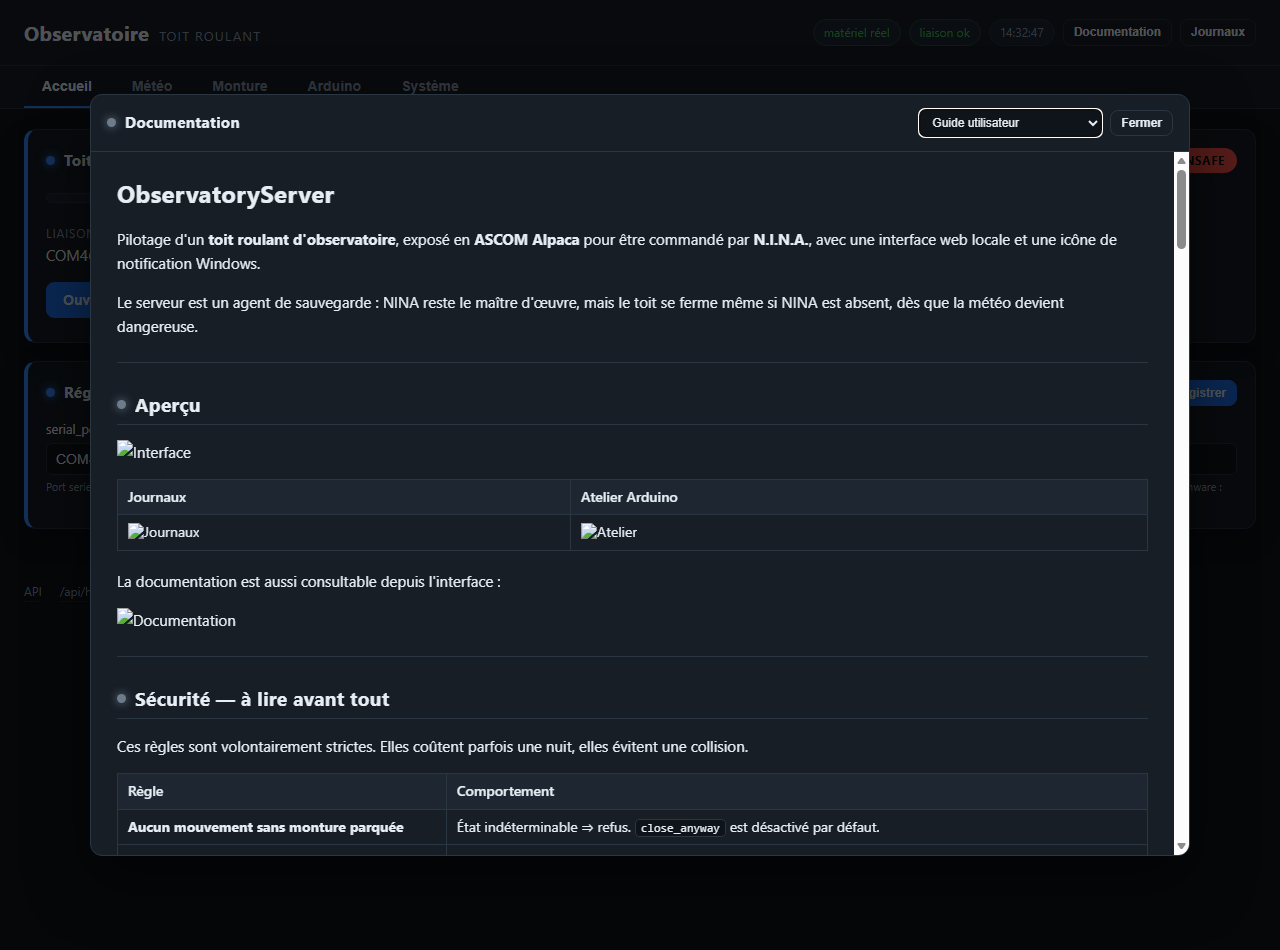
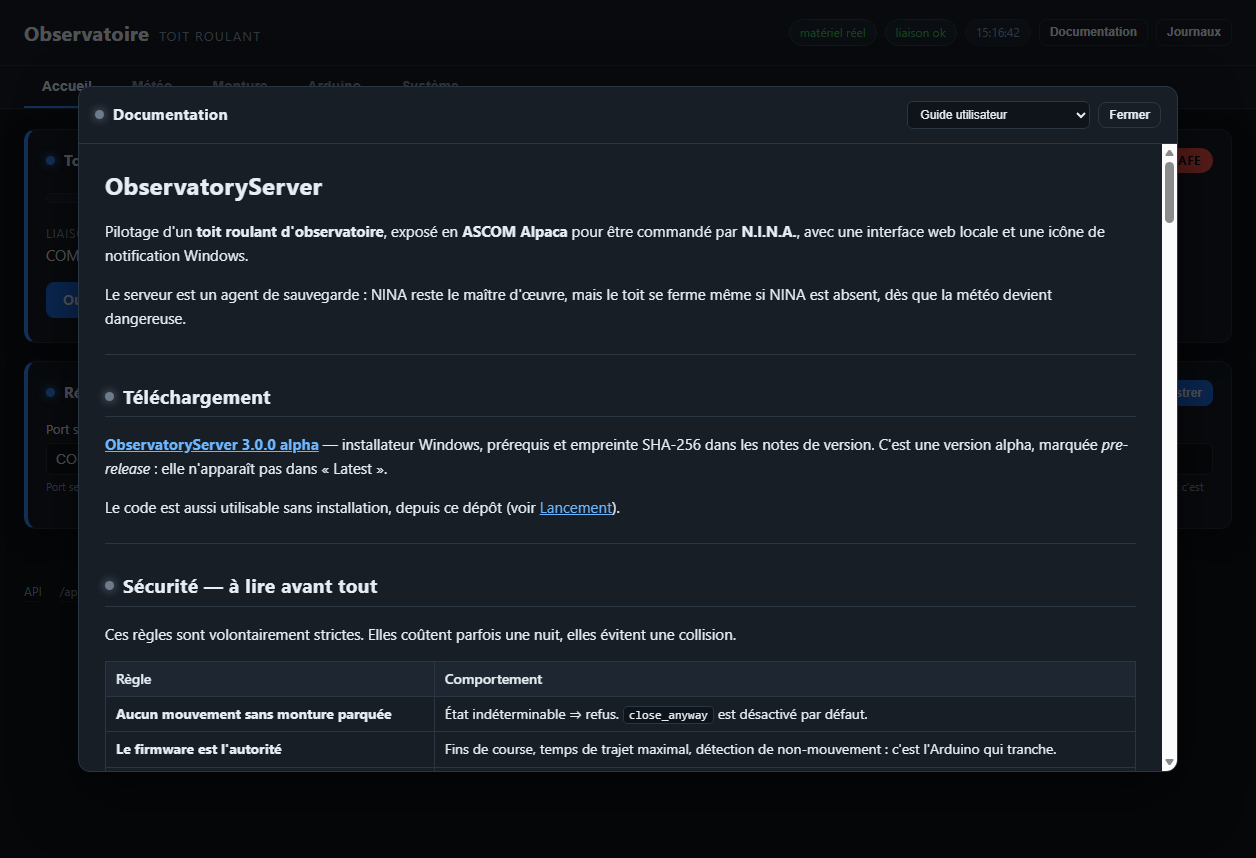
Documentation integree et captures a jour
- la documentation embarquee affichait des images cassees : la galerie
  'Apercu' du README (relative au depot) est retiree du rendu, et toute autre
  image est supprimee ;
- captures d'ecran regenerees depuis l'application installee, en materiel
  reel : libelles francais, listes de brochage, confirmations ;
- la carte cible occupe deux colonnes et n'est plus tronquee ;
- les descriptions ne citent plus de cle technique (serial_port,
  ROOF_MAX_TRAVEL_MS) ;
- le README renvoie vers la release et son empreinte SHA-256.

diff --git a/backend/web/app.js b/backend/web/app.js
@@ -409,7 +409,7 @@ function fieldElement(item) {
     item.type === "bool" ? String(item.value === true) : String(item.value);
 
   // Le pilote ASCOM est long et partage sa ligne avec le bouton Scanner.
-  if (item.key === "telescope_driver") {
+  if (item.key === "telescope_driver" || item.key === "arduino_fqbn") {
     wrapper.classList.add("span2");
   }
 

diff --git a/backend/common/settings_manager.py b/backend/common/settings_manager.py
@@ -114,14 +114,14 @@ SETTING_INFO = {
     "serial_port": ("toit", "Port serie de l'Arduino (par exemple COM4)."),
     "baudrate": ("toit", "Debit de la liaison serie ; doit correspondre au firmware."),
     "full_travel_time": ("toit", "Temps de trajet complet mesure, en secondes (estimation de position)."),
-    "max_travel_time": ("toit", "Doit rester egal a ROOF_MAX_TRAVEL_MS du firmware : c'est lui qui tranche."),
+    "max_travel_time": ("toit", "Doit rester egal a la securite de trajet du firmware : c'est elle qui tranche."),
     # monture
     "telescope_driver": ("monture", "ProgID ASCOM du driver (EQMOD.Telescope, ou EQMOD_SIM.Telescope pour un essai)."),
     "park_timeout": ("monture", "Delai maximal d'attente d'un parkage, en secondes."),
     "park_grace_seconds": ("monture", "Temps laisse a la monture pour se parquer avant que le toit refuse."),
     "auto_park_mount": ("monture", "L'agent de sauvegarde peut parquer lui-meme la monture. Jamais sur une commande interactive."),
     "close_anyway": ("monture", "Fermer le toit meme si la monture n'est pas parquee. Dangereux, desactive par defaut."),
-    "mount_check_mode": ("monture", "strict : refus si la monture n'est pas parquee. disabled : aucune verification."),
+    "mount_check_mode": ("monture", "Strict refuse si la monture n'est pas parquee ; desactive supprime la verification."),
     "guard_mount": ("monture", "Parquer la monture si elle est deparquee alors que le toit est ferme, et arreter la fermeture si elle se deparquille en cours."),
     "simulation_mount_parked": ("monture", "Etat de parkage de la monture simulee (mode simulation)."),
     # meteo
@@ -139,7 +139,7 @@ SETTING_INFO = {
     # atelier
     "arduino_cli_path": ("arduino", "Chemin d'arduino-cli. Vide : detection automatique (IDE Arduino, PATH)."),
     "arduino_fqbn": ("arduino", "Carte cible pour la compilation et le televersement."),
-    "arduino_upload_port": ("arduino", "Port de televersement. Vide : utilise serial_port."),
+    "arduino_upload_port": ("arduino", "Port de televersement. Vide : utilise le port serie du toit."),
     "pin_limit_open": ("arduino", "Broche du fin de course d'ouverture."),
     "pin_limit_closed": ("arduino", "Broche du fin de course de fermeture."),
     "pin_bts_rpwm": ("arduino", "Broche RPWM du driver BTS7960 (sens + vitesse)."),

diff --git a/backend/common/docs_api.py b/backend/common/docs_api.py
@@ -10,6 +10,8 @@ lecteur Markdown.
 
 from pathlib import Path
 
+import re
+
 import markdown
 
 from backend.common.paths import APP_DIR
@@ -22,6 +24,12 @@ DOCUMENTS = {
 }
 
 EXTENSIONS = ("tables", "fenced_code", "sane_lists")
+
+_IMAGE = re.compile(r"<img\b[^>]*>", re.IGNORECASE)
+
+# Section « Aperçu » du README : uniquement des captures du depot, qui ne se
+# resolvent pas dans l'application et laissent des tableaux vides.
+_APERCU = re.compile(r"^## Aper[çc]u\s*$.*?(?=^## |\Z)", re.MULTILINE | re.DOTALL)
 
 
 class UnknownDocument(KeyError):
@@ -60,7 +68,13 @@ def render(name):
 
     text = path.read_text(encoding="utf-8")
 
+    # La galerie de captures n'a pas de sens dans l'application elle-meme.
+    text = _APERCU.sub("", text)
+
     html = markdown.markdown(text, extensions=list(EXTENSIONS))
+
+    # Toute autre image du depot resterait cassee dans l'application.
+    html = _IMAGE.sub("", html)
 
     return {
         "key": name,

diff --git a/tests/test_paths_config.py b/tests/test_paths_config.py
@@ -206,3 +206,14 @@ def test_une_broche_non_pwm_est_refusee():
 def test_une_valeur_hors_liste_est_refusee():
     with pytest.raises(ValueError):
         settings_manager.update_setting("mount_check_mode", "peut-etre")
+
+
+def test_les_descriptions_ne_citent_pas_de_cle_technique():
+    """Une description doit rester lisible : pas de nom de variable."""
+
+    items = settings_manager.schema()["settings"]
+    keys = [item["key"] for item in items if "_" in item["key"]]
+
+    for item in items:
+        for key in keys:
+            assert key not in item["description"], (item["key"], key)

diff --git a/tests/test_docs_api.py b/tests/test_docs_api.py
@@ -22,6 +22,16 @@ def test_le_guide_est_rendu_en_html():
     assert "<table>" in document["html"]
 
 
+def test_les_captures_du_readme_sont_retirees():
+
+    document = docs_api.render("guide")
+
+    # Les chemins d'images du depot ne se resolvent pas dans l'application.
+    assert "<img" not in document["html"]
+    assert "docs/screenshots" not in document["html"]
+    assert "Aperçu" not in document["html"]
+
+
 def test_la_recette_est_rendue():
 
     document = docs_api.render("recette")

diff --git a/README.md b/README.md
@@ -27,6 +27,18 @@ La documentation est aussi consultable depuis l'interface :
 
 ---
 
+## Téléchargement
+
+**[ObservatoryServer 3.0.0 alpha](https://github.com/moustickk/ObservatoryServer/releases/tag/v3.0.0-alpha)**
+— installateur Windows, prérequis et empreinte SHA-256 dans les notes de
+version. C'est une version alpha, marquée *pre-release* : elle n'apparaît pas
+dans « Latest ».
+
+Le code est aussi utilisable sans installation, depuis ce dépôt
+(voir [Lancement](#lancement)).
+
+---
+
 ## Sécurité — à lire avant tout
 
 Ces règles sont volontairement strictes. Elles coûtent parfois une nuit, elles
